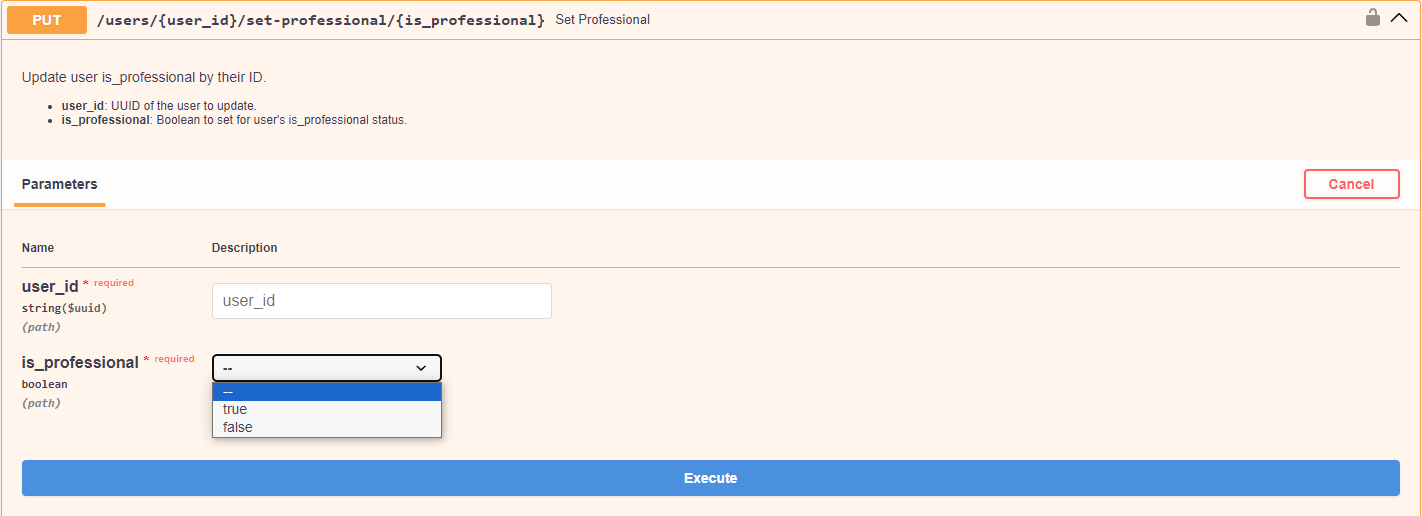
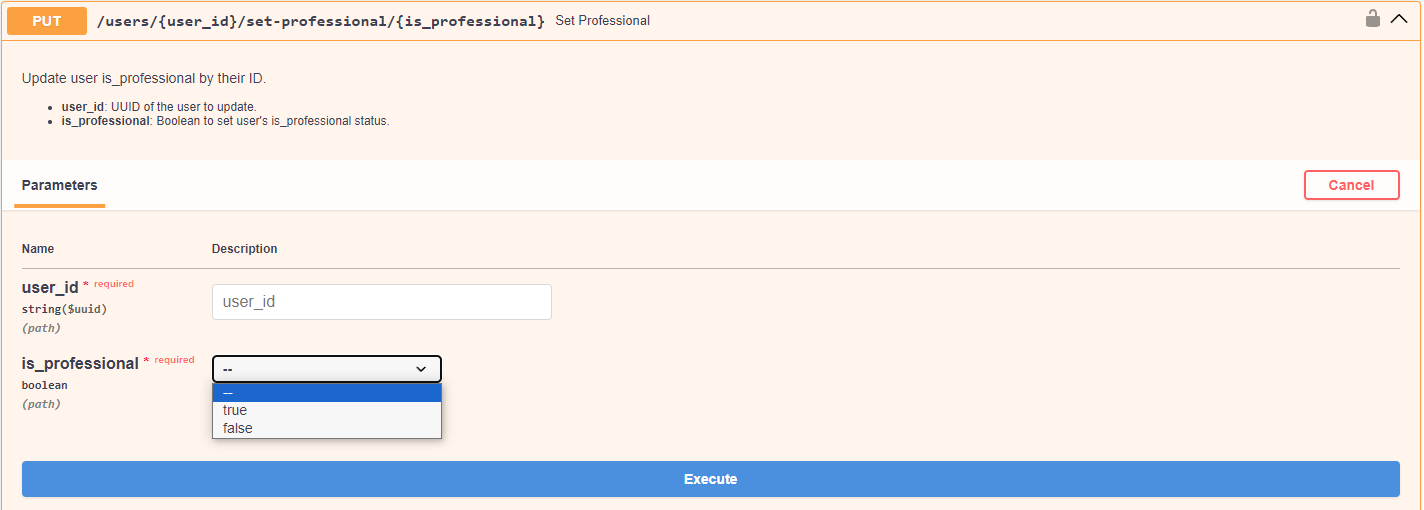
Corrected a description typo in Route Set Professional

Changed region(s): [[0.0, 0.0, 1.0, 1.0], [0.0, 0.1176, 0.2785, 0.2647], [0.0, 0.3529, 0.0928, 0.4118]]

diff --git a/app/routers/user_routes.py b/app/routers/user_routes.py
@@ -331,7 +331,7 @@ async def update_is_professional(user_id: UUID, is_professional: bool, request: 
     Update user is_professional by their ID.
 
     - **user_id**: UUID of the user to update.
-    - **is_professional**: Boolean to set for user's is_professional status.
+    - **is_professional**: Boolean to set user's is_professional status.
     """
     user = await UserService.get_by_id(db, user_id)
     if not user:
